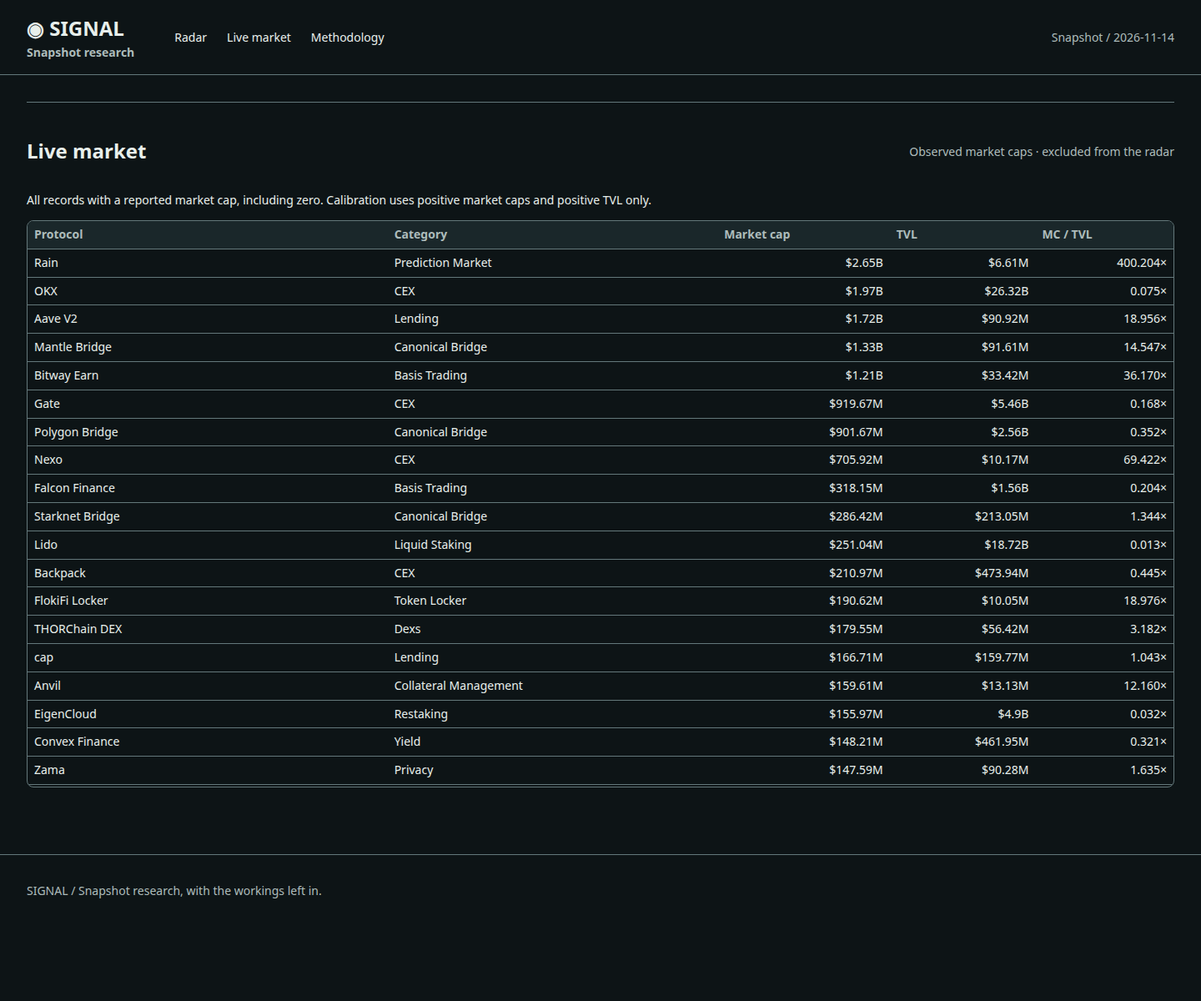
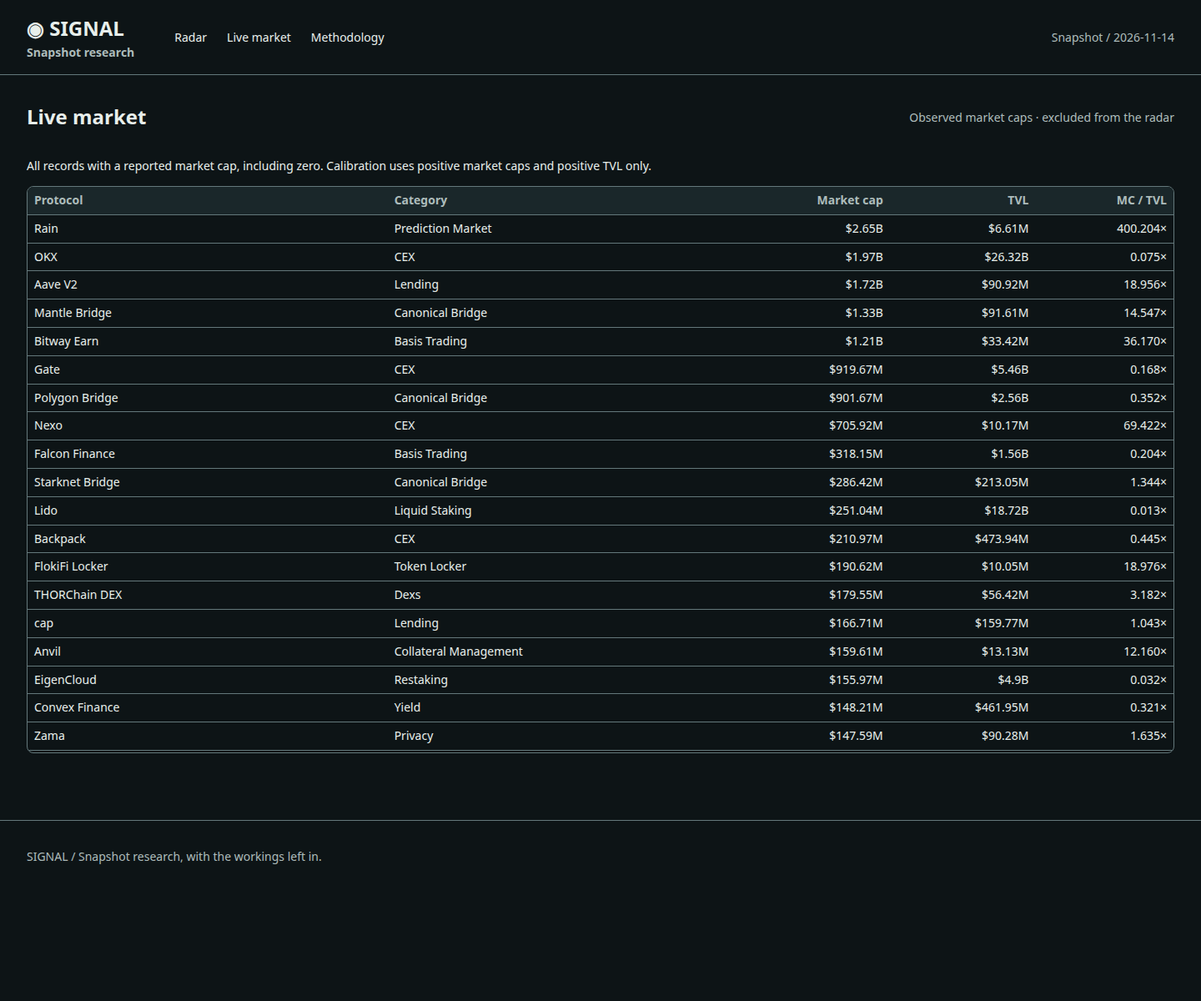
Panel-driven revision: category-specific farm playbooks, Plan column on the board, model validation (leave-one-out backtest) in the methodology

diff --git a/dashboard/model.js b/dashboard/model.js
@@ -20,12 +20,6 @@ function calibrate(s){
  return [c,{peer_count:n,raw_category_median:raw,category_median:cm,global_median:global,multiple:clamp((n*(cm??0)+6*global)/(n+6),global/3,global*3)}];}));
  return {global_multiple:global,global_peer_count:s.peers.length,shrinkage_k:6,categories};
 }
-const exactActions={
- 'Onchain Capital Allocator':'Deposit','Indexes':'Buy index shares worth','Risk Curators':'Deposit','Options Vault':'Deposit',
- 'Restaking':'Restake','Dexs':'Add liquidity worth','Lending':'Supply','CDP':'Deposit collateral worth',
- 'Prediction Market':'Fund a prediction market account with','Governance Incentives':'Allocate',
- 'Crypto Card Issuer':'Fund a card account with','Insurance':'Buy cover with a premium of'
-};
 function plan(p){
  let amount=p.tvl_usd>=1e9?250:p.tvl_usd>=1e8?150:p.tvl_usd>=2e7?75:40;
  const chain=p.chains.find(c=>c!=='Ethereum')??p.chains[0]??'the supported chain',age=p.listed_days;
@@ -36,28 +30,71 @@ function plan(p){
  // Reserve setup, entry, repeat actions and exit, plus a 1% service allowance.
  while(tx*gas[1]+Math.ceil(amount*.01)>amount*.1)amount=Math.ceil((amount+1)/50)*50;
  const fee=Math.ceil(amount*.01);
- let action=exactActions[c];
- if(!action){
- if(/vault|curator|allocator|index|restak|yield|farm/i.test(c))action='Deposit';
- else if(/lend|cdp|collateral/i.test(c))action='Supply collateral worth';
- else if(/dex|liquidity/i.test(c))action='Add liquidity worth';
- else if(/\bbridge\b|\bchain\b/i.test(c))action='Transfer';
- else if(/derivative|options|trading/i.test(c))action='Fund a trading account with';
- else if(/payment/i.test(c))action='Make a payment of';
- else if(/stak/i.test(c))action='Stake';
- else action='Allocate';
- }
- const trading=/derivative|options|trading|\bbridge\b|\bchain\b/i.test(c)&&!/vault/i.test(c);
- const product=/exchange|aggregator/i.test(c)?'position':/vault|curator|allocator|yield|farm/i.test(c)?'vault':null;
- const target=product?`${/^[aeiou]/i.test(p.name)?'an':'a'} ${p.name} ${product}`:p.name;
  const summary={capital_usd:amount,estimated_total_fees_usd:[Number((tx*gas[0]).toFixed(2)),tx*gas[1]+fee],setup_minutes:30,hold_days:days};
+ const entry=`$${amount} on ${chain} through ${p.name}`;
+ const monitor=`${cadence==='monthly'?'Monthly':'Weekly'} on ${chain}`;
+ const playbooks=[
+ [/risk curator/i,[
+  `Deposit a supported stablecoin worth ${entry} into the curator vault; verify its collateral exposure, curator mandate and redemption terms.`,
+  `Record the vault shares received and starting share price for ${p.name}; check which lending markets and collateral assets the curator can allocate to.`,
+  `${monitor}: track vault share price, curator rebalancing, utilization and bad-debt exposure. Keep the stablecoin vault position only while its mandate fits.`,
+  `After ${days} days, compare ${p.name} vault share value with the original stablecoin deposit and review any redemption queue before requesting withdrawal.`]],
+ [/onchain capital allocator/i,[
+  `Deposit a supported stablecoin worth ${entry} into an allocator vault after reviewing strategy weights, manager permissions and redemption limits.`,
+  `${monitor}: inspect ${p.name}'s stablecoin allocations, strategy returns and manager changes; rebalance only when the stated strategy requires it.`,
+  `At ${days} days, reconcile allocator vault shares against the stablecoin deposit and request redemption if strategy risk or withdrawal terms have changed.`]],
+ [/lend/i,[
+  `Supply a supported stablecoin worth ${entry} to the lending market; check utilization, supply caps and available withdrawal liquidity.`,
+  `Borrow only if a lending loop is intended: cap initial borrowing at 30% LTV against the supplied collateral, use a supported stablecoin and record the liquidation threshold. Otherwise keep ${p.name} supply-only.`,
+  `${monitor}: watch health factor, collateral prices, variable borrow rates and stablecoin liquidity. Repay debt early if health factor approaches 2; do not increase borrowing to manufacture activity.`,
+  `At ${days} days, compare ${p.name} stablecoin supply interest with borrowing costs, repay all debt before removing collateral and check withdrawal liquidity.`]],
+ [/^cdp$|collateralized debt/i,[
+  `Deposit supported collateral worth ${entry} into a CDP; verify its oracle, liquidation threshold and collateral-specific debt ceiling.`,
+  `Mint the protocol stablecoin against that collateral only below a 30% initial LTV ceiling and below the product's own limit; keep a stablecoin repayment reserve outside ${p.name}.`,
+  `${monitor}: check collateral value, stablecoin peg, stability fees and liquidation distance; repay minted debt if LTV rises toward 40% or a stricter product limit.`,
+  `After ${days} days, repay the minted stablecoin plus accrued fees in ${p.name}, close the CDP and release collateral when the debt balance reaches zero.`]],
+ [/dex|liquidity/i,[
+  `Add liquidity worth ${entry} to the main supported trading pair after checking both token assets, pool depth, fee tier and impermanent-loss exposure.`,
+  `For concentrated liquidity on ${p.name}, set a price range suited to the pair and record both token quantities and entry prices; use the full-range pool if ranges are unsupported.`,
+  `Check the pair's price range weekly; ${chain==='Ethereum'?'batch any paid range adjustment monthly':'adjust the range only when justified by price movement'}. Compare earned swap fees with impermanent loss before adding capital.`,
+  `At ${days} days, remove ${p.name} liquidity if appropriate, collect accrued pair fees and compare the two redeemed token balances with simply holding the entry assets.`]],
+ [/derivative|perp|options|trading/i,[
+  `Fund a derivatives margin account with supported stablecoin collateral worth ${entry}; inspect funding rates, liquidation rules and settlement assets.`,
+  `Use only a small part of ${p.name} margin for a supported perpetual or derivative position, with at most 1x notional exposure and a predefined loss limit; skip trades without an intended thesis.`,
+  `${monitor}: review stablecoin margin, funding payments and liquidation distance. Close positions at the loss limit and retain fills and funding records for the ${days}-day review.`]],
+ [/index/i,[
+  `Buy supported index shares worth ${entry}; inspect the underlying token basket, constituent weights, redemption method and management fees.`,
+  `${monitor}: compare ${p.name} index share price with basket NAV, track constituent rebalances and avoid buying at a large premium.`,
+  `After ${days} days, compare the index token basket return with fees and decide whether to sell shares or redeem the underlying assets.`]],
+ [/restak/i,[
+  `Restake a supported staking asset worth ${entry}; inspect the underlying validator exposure, slashing conditions and unbonding period first.`,
+  `Record the restaking receipt shares and ${p.name} operator or service allocations; verify whether additional delegation exposes the same collateral to more slashing.`,
+  `${monitor}: check operator performance, slashing events and receipt-token value. Avoid adding service exposure solely for points.`,
+  `At ${days} days, review ${p.name} restaked collateral and start the unbonding queue if exiting; allow the documented delay before redeeming receipt shares.`]],
+ [/yield|farm|vault/i,[
+  `Deposit a supported stablecoin or required LP asset worth ${entry} into the yield vault; inspect strategy contracts, reward-token exposure and lockups.`,
+  `${monitor}: compare ${p.name} vault share price and net yield after fees; claim or compound reward tokens only when the expected proceeds exceed transaction costs.`,
+  `At ${days} days, assess the yield strategy's drawdown and redeem vault shares or unstake the LP asset when the withdrawal window permits.`]],
+ [/prediction market/i,[
+  `Fund a prediction market account with a supported stablecoin worth ${entry}; read market resolution rules, oracle sources and settlement dates.`,
+  `Take small outcome-share positions on ${p.name}, risking at most 5% of this stablecoin budget per market; record the thesis, entry odds, size and maximum loss.`,
+  `${monitor}: review outcome-share prices and resolution disputes; keep trade and settlement records and avoid increasing stakes to chase losses.`,
+  `At ${days} days, sell outcome shares where liquid or retain only positions whose settlement date and resolution risk you accept; redeem resolved ${p.name} positions and log proceeds.`]],
+ [/bridge|chain/i,[
+  `Transfer a small test amount of a supported stablecoin through ${p.name} on ${chain}; verify the destination network, token contract, bridge route and finality time.`,
+  `After confirming receipt of the test stablecoin, transfer the remaining budget up to ${entry}; record source and destination transaction hashes and any wrapped-token exposure.`,
+  `${monitor}: reconcile transferred stablecoin balances and pending messages; make another transfer only for a real destination-chain need during the ${days}-day period.`]],
+ [/.*/,[
+  `Identify ${p.name}'s core ${c} action and supported asset class in its official app before committing ${entry}; skip the workflow if the product or withdrawal path cannot be verified.`,
+  `Use a supported stablecoin or the product's required base asset for one small core action within the $${amount} budget; record receipt assets, transaction hashes and withdrawal conditions.`,
+  `${monitor}: reconcile ${p.name} base-asset and receipt balances, check product-specific risks and repeat only a useful supported action. Review net results after ${days} days.`]]
+ ];
+ const workflow=playbooks.find(([pattern])=>pattern.test(c))[1];
  const steps=[
- `Prepare $${amount} for ${p.name} on ${chain}. Verify the official app, supported assets, minimums, eligibility and withdrawal terms before funding. Stop if these checks fail. Cost: $${gas.join('–')} gas allowance. Time: 10 minutes.`,
- `${action} $${amount} ${action==='Deposit'?'into':action==='Transfer'?'through':'using'} ${target} on ${chain}. Cost: $${gas.join('–')} gas plus $${fee} estimated fees/slippage allowance. Time: 20 minutes.`,
- `${cadence==='monthly'?'Monthly':'Weekly'}: monitor risks and repeat one useful supported action with the $${amount} activity on ${p.name} on ${chain} without manufacturing volume. Cost: $${gas.join('–')} gas per ${cadence} action. Time: 10 minutes ${cadence}.`,
- `At the end of the ${days}-day hold on ${chain} (${age===null?'listing age unknown':age+' days listed'}), decide whether to exit the $${amount} activity. Check the withdrawal or unstake window and claim eligibility, then log the outcome and exit decision. ${trading?'Retain trade or transfer records.':'Record any queue or lockup before withdrawing.'} Cost: $0 to review. Time: 10 minutes.`,
- `Check ${p.name}'s official rewards page for the $${amount} activity; record when no campaign exists. Never pay to claim or disclose a seed phrase. Cost: $0 to check. Time: 5 minutes weekly.`,
- `Exit the $${amount} activity on ${chain}: repay any debt, withdraw or redeem when allowed, revoke unused approvals and log transactions and fees. Cost: reserve $${gas.join('–')} gas plus documented exit fees. Time: 15 minutes; queues may add days.`
+  `Prepare $${amount} for ${p.name} (${c}) on ${chain}. Verify the official app, supported assets, minimums and eligibility. Use a cheaper non-Ethereum chain when listed; stop if checks fail. Setup: 30 minutes including entry.`,
+  ...workflow,
+  `Budget $${summary.estimated_total_fees_usd.join('–')} total estimated fees for the ${days}-day plan. Gas allowance: $${gas.join('–')} per transaction plus $${fee} service/slippage reserve. Use a ${cadence} paid-action cadence; raise capital until fees fit, and skip actions if actual fees exceed this budget.`,
+  `Check ${p.name}'s official rewards and withdrawal terms; record when no campaign exists. After the ${days}-day review, withdraw or redeem the remaining supported assets when allowed, revoke unused approvals and log fees. Never pay to claim or disclose a seed phrase.`
  ];
  return {summary,steps};
 }

diff --git a/dashboard/index.html b/dashboard/index.html
@@ -3,7 +3,7 @@
 <body><noscript>This local dashboard needs JavaScript enabled to display the snapshot.</noscript><header><a class="brand" href="#">◉ SIGNAL<span>Snapshot research</span></a><nav><a id="radar-nav" href="#">Radar</a><a href="#live">Live market</a><a href="#model">Methodology</a></nav><span id="date"></span></header>
 <main><section class="intro"><h1>Find the signal. Before the launch.</h1><p>A snapshot-driven research queue, ranked by peer-calibrated implied value. Explore the evidence. Make a plan.</p></section><div id="stats" class="stats"></div>
 <section id="detail" hidden></section>
-<section id="board"><div class="section-title"><h2>Launch radar <span id="count"></span></h2><span id="filter-chip" hidden></span></div><div class="controls"><label>Search protocols<input id="search" type="search" placeholder="Name, chain or category…"></label><label>Category<select id="category"><option value="">All categories</option></select></label><label class="check"><input type="checkbox" id="watch">Watchlist only</label><button id="reset">Reset</button></div><p class="hint">Every multiple blends the winsorized category median with the global median using k = 6, then clamps to [G/3, G×3]. Peer counts appear below each multiple. Select a protocol for its evidence and six-step plan. Headers sort; rank reflects modeled value.</p><div class="table-wrap"><table><thead id="head"></thead><tbody id="rows"></tbody></table></div><p id="empty" hidden>No protocols match. Clear the filters to explore the full board.</p></section>
-<section id="live" hidden><div class="section-title"><h2>Live market</h2><span>Observed market caps · excluded from the radar</span></div><p>All records with a reported market cap, including zero. Calibration uses positive market caps and positive TVL only.</p><div class="table-wrap"><table><thead><tr><th>Protocol</th><th>Category</th><th>Market cap</th><th>TVL</th><th>MC / TVL</th></tr></thead><tbody id="live-rows"></tbody></table></div></section>
-<section id="model"><h2>A model you can inspect.</h2><p class="formula">TVL × peer multiple × growth factor × maturity factor</p><p>First compute G, the global median of all positive live-token market-cap / TVL peer ratios. Winsorize every peer ratio into [G/4, G×4] before computing category medians. The category median is the median of its winsorized peer ratios. Blend toward G: (n × category median + 6 × G) / (n + 6), where n is the category peer count, then clamp the blended multiple into [G/3, G×3]. A category with no peers has no category median and receives the global median through the same formula. Each snapshot record is one peer; related products may share a token.</p><p>Growth factor = 1 + clamp(7d change, −60%, +120%) / 200. Maturity factor = 0.6 + 0.4 × min(age, 1095) / 1095. Missing growth uses 0%; missing listing dates use 365 days. Values round to whole dollars. Listing age measures tracking history, not launch date.</p><p id="clamp-bounds" class="small"></p><div id="calibration"></div><p>The board lists every eligible protocol the model finds. Candidates have no recorded token identifiers or market cap. The same documented category and name exclusions apply to every row: CEX, bridge, liquid staking/restaking, restaked BTC, names ending in a version marker, wrapped/staked/staking names and exchange-prefixed products are excluded. Above the floor, the watchlist is authoritative because its parent-product check used fields not carried in this snapshot. Below the floor, eligibility uses the available category and name fields; parent relationships cannot be checked independently.</p><p class="muted">Implied protocol token value is a comparative scenario, not a predicted airdrop allocation or launch probability. Plans are category-based suggestions, not verified campaigns; supported assets, fees, access and reward eligibility require checking in the official app. No reward is guaranteed.</p></section>
+<section id="board"><div class="section-title"><h2>Launch radar <span id="count"></span></h2><span id="filter-chip" hidden></span></div><div class="controls"><label>Search protocols<input id="search" type="search" placeholder="Name, chain or category…"></label><label>Category<select id="category"><option value="">All categories</option></select></label><label class="check"><input type="checkbox" id="watch">Watchlist only</label><button id="reset">Reset</button></div><p class="hint">Every multiple blends the winsorized category median with the global median using k = 6, then clamps to [G/3, G×3]. Peer counts appear below each multiple. Select a protocol for its evidence and category playbook. Headers sort; rank reflects modeled value.</p><div class="table-wrap"><table><thead id="head"></thead><tbody id="rows"></tbody></table></div><p id="empty" hidden>No protocols match. Clear the filters to explore the full board.</p></section>
+<section id="live" hidden><div class="section-title"><h2>Live market</h2><span>Observed market caps · excluded from the radar</span></div><p>All records with a reported market cap, including zero. Calibration uses positive market caps and positive TVL only.</p><div class="table-wrap"><table><thead><tr><th>Protocol</th><th>Category</th><th class="num">Market cap</th><th class="num">TVL</th><th class="num">MC / TVL</th></tr></thead><tbody id="live-rows"></tbody></table></div></section>
+<section id="model"><h2>A model you can inspect.</h2><p class="formula">TVL × peer multiple × growth factor × maturity factor</p><p>First compute G, the global median of all positive live-token market-cap / TVL peer ratios. Winsorize every peer ratio into [G/4, G×4] before computing category medians. The category median is the median of its winsorized peer ratios. Blend toward G: (n × category median + 6 × G) / (n + 6), where n is the category peer count, then clamp the blended multiple into [G/3, G×3]. A category with no peers has no category median and receives the global median through the same formula. Each snapshot record is one peer; related products may share a token.</p><p>Growth factor = 1 + clamp(7d change, −60%, +120%) / 200. Maturity factor = 0.6 + 0.4 × min(age, 1095) / 1095. Missing growth uses 0%; missing listing dates use 365 days. Values round to whole dollars. Listing age measures tracking history, not launch date.</p><h3>Model validation</h3><p>Leave-one-out backtest on the snapshot's 128 live peers, computed with this shipped estimator: median predicted/actual market cap 1.00 (no systematic bias), typical error x/div 5.0, 34% of peers predicted within x3. Alternative estimators tested (global-median only, geometric medians, stronger shrinkage k=12, no growth/maturity factors) all scored x/div 4.9-5.2, so the estimator was kept. This is a screening and ranking device, not a price prediction.</p><p id="clamp-bounds" class="small"></p><div id="calibration"></div><p>The board lists every eligible protocol the model finds. Candidates have no recorded token identifiers or market cap. The same documented category and name exclusions apply to every row: CEX, bridge, liquid staking/restaking, restaked BTC, names ending in a version marker, wrapped/staked/staking names and exchange-prefixed products are excluded. Above the floor, the watchlist is authoritative because its parent-product check used fields not carried in this snapshot. Below the floor, eligibility uses the available category and name fields; parent relationships cannot be checked independently.</p><p class="muted">Implied protocol token value is a comparative scenario, not a predicted airdrop allocation or launch probability. Plans are category-based suggestions, not verified campaigns; supported assets, fees, access and reward eligibility require checking in the official app. No reward is guaranteed.</p></section>
 </main><footer>SIGNAL / Snapshot research, with the workings left in.</footer></body></html>

diff --git a/dashboard/app.js b/dashboard/app.js
@@ -3,24 +3,23 @@ const shipped=window.RADAR;
 const D=window.RADAR_MODEL.compute(shipped);
 const boardValues=new Map(shipped.rows.map(r=>[r.slug,r.implied_value_usd]));
 if(D.rows.some(r=>r.implied_value_usd!==boardValues.get(r.slug)))throw Error('Board recomputation mismatch');
-if(!D)throw new Error('Snapshot data is missing: run main.ts and open out/dashboard/index.html');
 const $=id=>document.getElementById(id);
 const esc=s=>String(s??'').replace(/[&<>"']/g,c=>({'&':'&amp;','<':'&lt;','>':'&gt;','"':'&quot;',"'":'&#39;'}[c]));
 const money=n=>'$'+new Intl.NumberFormat('en-US',{notation:'compact',maximumFractionDigits:2}).format(n);
 const exact=n=>'$'+Math.round(n).toLocaleString('en-US');
 const pct=n=>n===null?'—':(n>=0?'+':'')+n.toFixed(2)+'%';
 let sort='implied_value_usd',direction=-1;
-const columns=[['rank','#'],['name','Protocol'],['category','Category'],['chains','Chains'],['tvl_usd','TVL'],['change_7d','7d TVL'],['age_days','Age / days'],['implied_value_usd','Implied value'],['multiple','MC / TVL']];
+const columns=[['rank','#'],['name','Protocol'],['category','Category'],['chains','Chains'],['tvl_usd','TVL'],['change_7d','7d TVL'],['age_days','Age / days'],['implied_value_usd','Implied value'],['multiple','MC / TVL'],['plan','Plan']];
 $('date').textContent='Snapshot / '+D.as_of;
 $('stats').innerHTML=[[D.rows.length,'ranked opportunities'],[D.watchlist_size+'/'+D.watchlist_size,'watchlist covered'],[D.rows.filter(r=>!r.watchlist).length,'below-floor discoveries'],[D.calibration.global_multiple.toFixed(3)+'×','global peer median']].map(([n,t])=>`<div class="stat"><strong>${n}</strong><span>${t}</span></div>`).join('');
 $('category').innerHTML+=[...new Set(D.rows.map(r=>r.category??'Uncategorized'))].sort().map(c=>`<option value="${esc(c)}">${esc(c)}</option>`).join('');
 function table(){
  const q=$('search').value.toLowerCase(),cat=$('category').value;
  const rows=D.rows.filter(r=>(!cat||(r.category??'Uncategorized')===cat)&&(!$('watch').checked||r.watchlist)&&[r.name,r.category,...r.chains].join(' ').toLowerCase().includes(q));
- const val=r=>sort==='multiple'?r.model.base_multiple:sort==='chains'?r.chains.join(', '):r[sort];
+ const val=r=>sort==='plan'?r.farm_summary.capital_usd:sort==='multiple'?r.model.base_multiple:sort==='chains'?r.chains.join(', '):r[sort];
  rows.sort((a,b)=>{const x=val(a),y=val(b);if(x===null)return y===null?0:1;if(y===null)return -1;return (typeof x==='string'?x.localeCompare(y):x-y)*direction||a.rank-b.rank;});
  $('head').innerHTML='<tr>'+columns.map(([key,title])=>`<th class="${['rank','tvl_usd','change_7d','age_days','implied_value_usd','multiple'].includes(key)?'num':''}" aria-sort="${sort===key?(direction===1?'ascending':'descending'):'none'}"><button data-sort="${key}">${title}${sort===key?(direction===1?' ↑':' ↓'):''}</button></th>`).join('')+'</tr>';
- $('rows').innerHTML=rows.map(r=>`<tr><td class="small">${String(r.rank).padStart(2,'0')}</td><td><a href="#detail=${encodeURIComponent(r.slug)}">${esc(r.name)}</a>${r.watchlist?'<span class="badge">WATCH</span>':''}</td><td>${esc(r.category??'Uncategorized')}</td><td title="${esc(r.chains.join(', '))}">${esc(r.chains.slice(0,2).join(', '))}${r.chains.length>2?' +'+(r.chains.length-2):''}</td><td title="${exact(r.tvl_usd)}">${money(r.tvl_usd)}</td><td class="${r.change_7d===null?'':r.change_7d>=0?'up':'down'}">${pct(r.change_7d)}</td><td>${r.age_days??'—'}</td><td class="value" title="${exact(r.implied_value_usd)}">${money(r.implied_value_usd)}</td><td title="${r.model.peer_count} category peer${r.model.peer_count===1?'':'s'}">${r.model.base_multiple.toFixed(3)}×<span class="small">${r.model.peer_count} category peer${r.model.peer_count===1?'':'s'}</span></td></tr>`).join('');
+ $('rows').innerHTML=rows.map(r=>`<tr><td class="small">${String(r.rank).padStart(2,'0')}</td><td><a href="#detail=${encodeURIComponent(r.slug)}">${esc(r.name)}</a>${r.watchlist?'<span class="badge">WATCH</span>':''}</td><td>${esc(r.category??'Uncategorized')}</td><td title="${esc(r.chains.join(', '))}">${esc(r.chains.slice(0,2).join(', '))}${r.chains.length>2?' +'+(r.chains.length-2):''}</td><td title="${exact(r.tvl_usd)}">${money(r.tvl_usd)}</td><td class="${r.change_7d===null?'':r.change_7d>=0?'up':'down'}">${pct(r.change_7d)}</td><td>${r.age_days??'—'}</td><td class="value" title="${exact(r.implied_value_usd)}">${money(r.implied_value_usd)}</td><td title="${r.model.peer_count} category peer${r.model.peer_count===1?'':'s'}">${r.model.base_multiple.toFixed(3)}×<span class="small">${r.model.peer_count} category peer${r.model.peer_count===1?'':'s'}</span></td><td class="plan-cell" title="Capital / estimated total fees / hold days">${exact(r.farm_summary.capital_usd)} / $${r.farm_summary.estimated_total_fees_usd.join('–')}<span class="small">${r.farm_summary.hold_days} days hold</span></td></tr>`).join('');
  $('count').textContent=rows.length+' / '+D.rows.length;
  $('filter-chip').hidden=!(cat||q||$('watch').checked);
  $('filter-chip').textContent=[cat,q?'Search: '+$('search').value:'',$('watch').checked?'Watchlist':''].filter(Boolean).join(' / ')+' · '+rows.length+' of '+D.rows.length;

diff --git a/dashboard/app.css b/dashboard/app.css
@@ -1,1 +1,3 @@
 :root{color-scheme:dark;--bg:#0d1416;--panel:#141e21;--head:#1a272a;--line:#64787b;--text:#e8efeb;--muted:#adbcbb;--accent:#b9cfff;--positive:#9de0b0;--negative:#ffacac;--radius:8px}*{box-sizing:border-box}body{margin:0;background:var(--bg);color:var(--text);font:14px/1.5 system-ui,sans-serif}a{color:inherit;text-decoration:none}a:hover{color:var(--accent);text-decoration:underline}header{padding:16px 32px;border-bottom:1px solid var(--line);display:flex;align-items:center;gap:48px}.brand{font-size:24px;font-weight:700}.brand span{display:block;font-size:14px;color:var(--muted)}nav{display:flex;gap:24px}#date{margin-left:auto;color:var(--muted)}main{max-width:1440px;margin:auto;padding:0 32px}.intro{padding:16px 0;max-width:960px}h1{font-size:32px;line-height:1.2;margin:8px 0}h2{font-size:24px;margin:16px 0}h3{font-size:20px}.intro p{color:var(--muted);margin:8px 0}.stats{display:grid;grid-template-columns:repeat(4,1fr);border:1px solid var(--line);border-radius:var(--radius);margin-bottom:32px}.stat{padding:16px;border-right:1px solid var(--line)}.stat:last-child{border:0}.stat strong{font-size:24px;display:block;font-variant-numeric:tabular-nums}.stat span,.muted,.hint,.small{color:var(--muted)}section{scroll-margin-top:16px}#model,#live{padding:24px 0 32px;border-top:1px solid var(--line);margin-top:32px}#detail{padding:24px 0 32px}.section-title{display:flex;align-items:center;justify-content:space-between;gap:16px}.section-title>span,#count{font-size:14px;color:var(--muted)}#filter-chip{padding:8px;border:1px solid var(--line);border-radius:var(--radius)}.controls{display:flex;align-items:end;gap:16px;background:var(--panel);padding:16px;border:1px solid var(--line);border-radius:var(--radius)}label{color:var(--muted);display:block}input,select,select option,button{font:inherit;background:var(--bg);border:1px solid var(--line);color:var(--text);padding:8px 16px;border-radius:var(--radius)}input[type=search]{width:280px}label>input,select{display:block;margin-top:8px}.check{display:flex;align-items:center;gap:8px;padding:8px}.check input{accent-color:var(--accent)}button{cursor:pointer}button:hover{border-color:var(--accent);color:var(--text)}:focus-visible{outline:2px solid var(--accent);outline-offset:2px}.table-wrap{overflow:auto;max-height:680px;border:1px solid var(--line);border-radius:var(--radius)}table{width:100%;border-collapse:collapse;white-space:nowrap;text-align:left;font-size:14px;line-height:1.2}th{position:sticky;top:0;background:var(--head);z-index:1;color:var(--muted);font-weight:700}th button{border:0;background:none;padding:0;color:inherit;font:inherit}td,th{padding:8px;border-bottom:1px solid var(--line)}td{font-variant-numeric:tabular-nums}#board td:nth-child(n+5),#board td:first-child,#live td:nth-child(n+3),.num{text-align:right;font-variant-numeric:tabular-nums}td:nth-child(2) a{font-weight:700}tbody tr:hover{background:var(--panel)}.value{color:var(--accent);font-weight:700}.badge{font-size:14px;color:var(--text);padding:0 8px;margin-left:8px}.up{color:var(--positive)}.down{color:var(--negative)}.small{font-size:14px}.formula{font-size:16px;color:var(--text);padding:16px;background:var(--panel);border:1px solid var(--line);border-radius:var(--radius)}.recomputed{font:14px/1.5 monospace;color:var(--positive)}#model p{max-width:1000px}#calibration{overflow:auto;border:1px solid var(--line);border-radius:var(--radius)}.breakdown{display:grid;grid-template-columns:repeat(4,1fr);gap:16px;margin:24px 0}.breakdown div{padding:16px;background:var(--panel);border:1px solid var(--line);border-radius:var(--radius)}.breakdown strong{display:block;font-size:24px}.plan{display:grid;grid-template-columns:1fr 1fr;gap:16px;padding:0;list-style:none;counter-reset:steps}.plan li{padding:24px;background:var(--panel);border:1px solid var(--line);border-radius:var(--radius);counter-increment:steps;overflow-wrap:anywhere}.plan li:before{content:counter(steps);display:block;font-weight:700;margin-bottom:8px}footer{border-top:1px solid var(--line);padding:32px;color:var(--muted);margin-top:48px}[hidden]{display:none!important}td:last-child .small{display:block;font-weight:400}noscript{display:block;padding:24px}@media(max-width:800px){header{gap:24px;flex-wrap:wrap}.stats,.breakdown{grid-template-columns:1fr 1fr}.controls{flex-wrap:wrap}.plan{grid-template-columns:1fr}.section-title{align-items:start;flex-direction:column}#date{margin-left:0}input[type=search]{width:100%}button,nav a{min-height:44px}main{padding:0 16px}}
+
+#live{margin-top:0;border-top:0;padding-top:16px}#board table{font-size:13px}#board .badge{font-size:11px;padding:0 4px;margin-left:4px}#board td:last-child .small{font-size:12px}#board td:nth-child(9) .small{display:block;font-size:11px}#board .plan-cell{white-space:nowrap}#board th:last-child{text-align:right}
